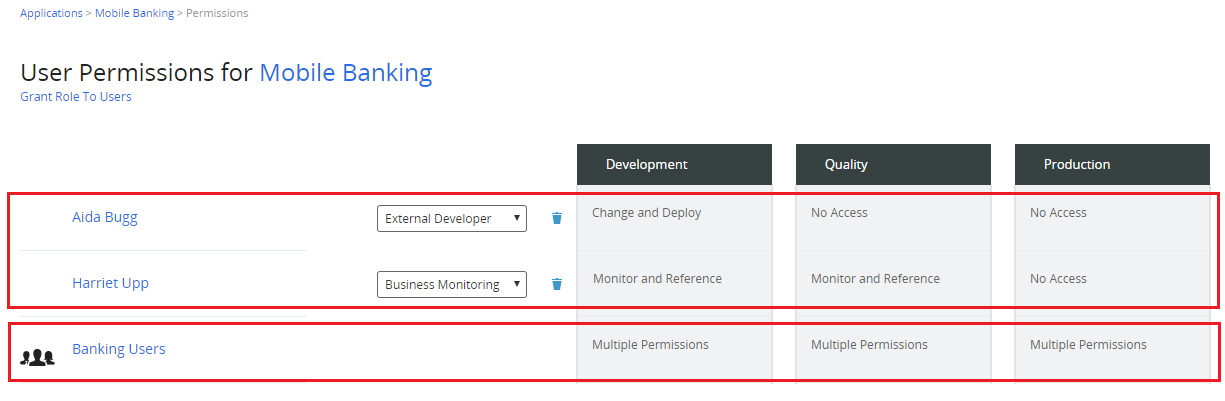
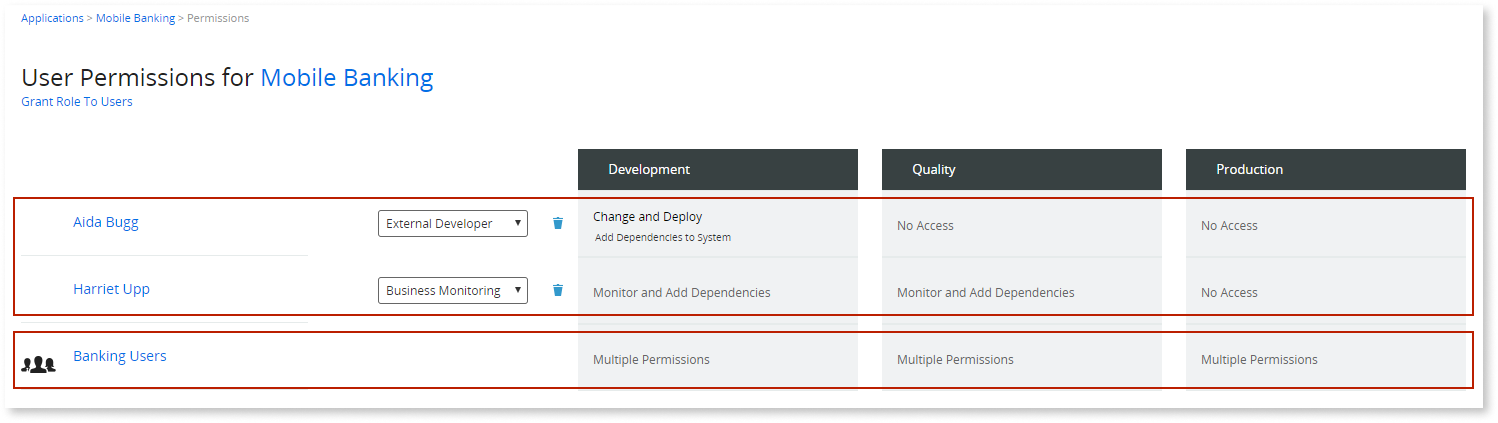
Updated LifeTime UI.

diff --git a/src/managing-the-applications-lifecycle/manage-it-teams/find-out-the-permissions-of-it-users.md b/src/managing-the-applications-lifecycle/manage-it-teams/find-out-the-permissions-of-it-users.md
@@ -16,7 +16,7 @@ In this example we want to understand who has access to the application Mobile B
 
 1. Click the **Permissions** link.  
 
-    ![](images/users-permissions-app-lt.png?width=950)
+    ![](images/users-permissions-app-lt.png)
 
 On this page, we can see:
 
@@ -32,12 +32,12 @@ In this example we want to understand the permissions that a specific user has, 
 
 1. In the **USERS** screen, find the user and click the Name of the user to go to the details page.  
 
-    ![](images/users-permissions-user-lt.png?width=950)
+    ![](images/users-permissions-user-lt.png)
 
 On this page, we can see that:
 
 * The **default role** of the user grants him access to the Development environment, but no access to any application. Also, it grants No Access to Quality and Production environments.
 
-* The user has Architect **role in the team** Intranet, which grants him Change and Deploy permission in the Development environment over the applications that the team manages, Directory and Fleet Management. Over the same applications, the user has Monitor and Reference permission in the Quality environment and No Access in the Production environment.
+* The user has Architect **role in the team** Intranet, which grants him Change and Deploy permission in the Development environment over the applications that the team manages, Directory and Fleet Management. Over the same applications, the user has Monitor and Add Dependencies permission in the Quality environment and No Access in the Production environment.
 
-* The user has been given **specific access** to Mobile Banking application with role Business Monitoring, which grants the user Monitor and Reference permission over this application in the Development and Quality environments, but No Access to the application in the Production environment.
+* The user has been given **specific access** to Mobile Banking application with role Business Monitoring, which grants the user Monitor and Add Dependencies permission over this application in the Development and Quality environments, but No Access to the application in the Production environment.
